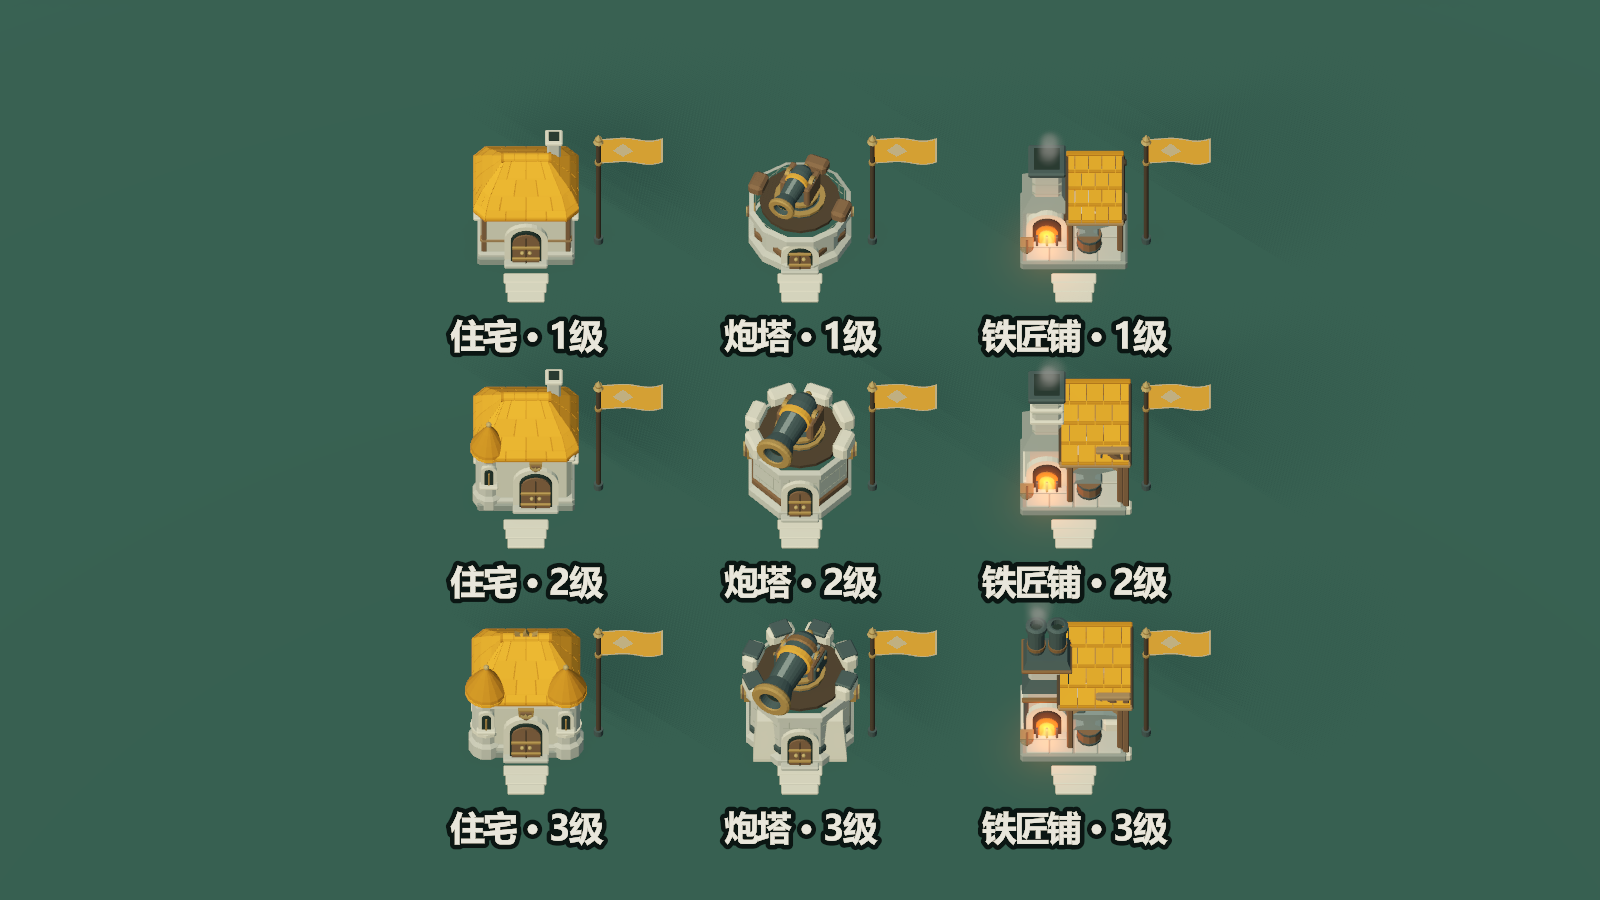
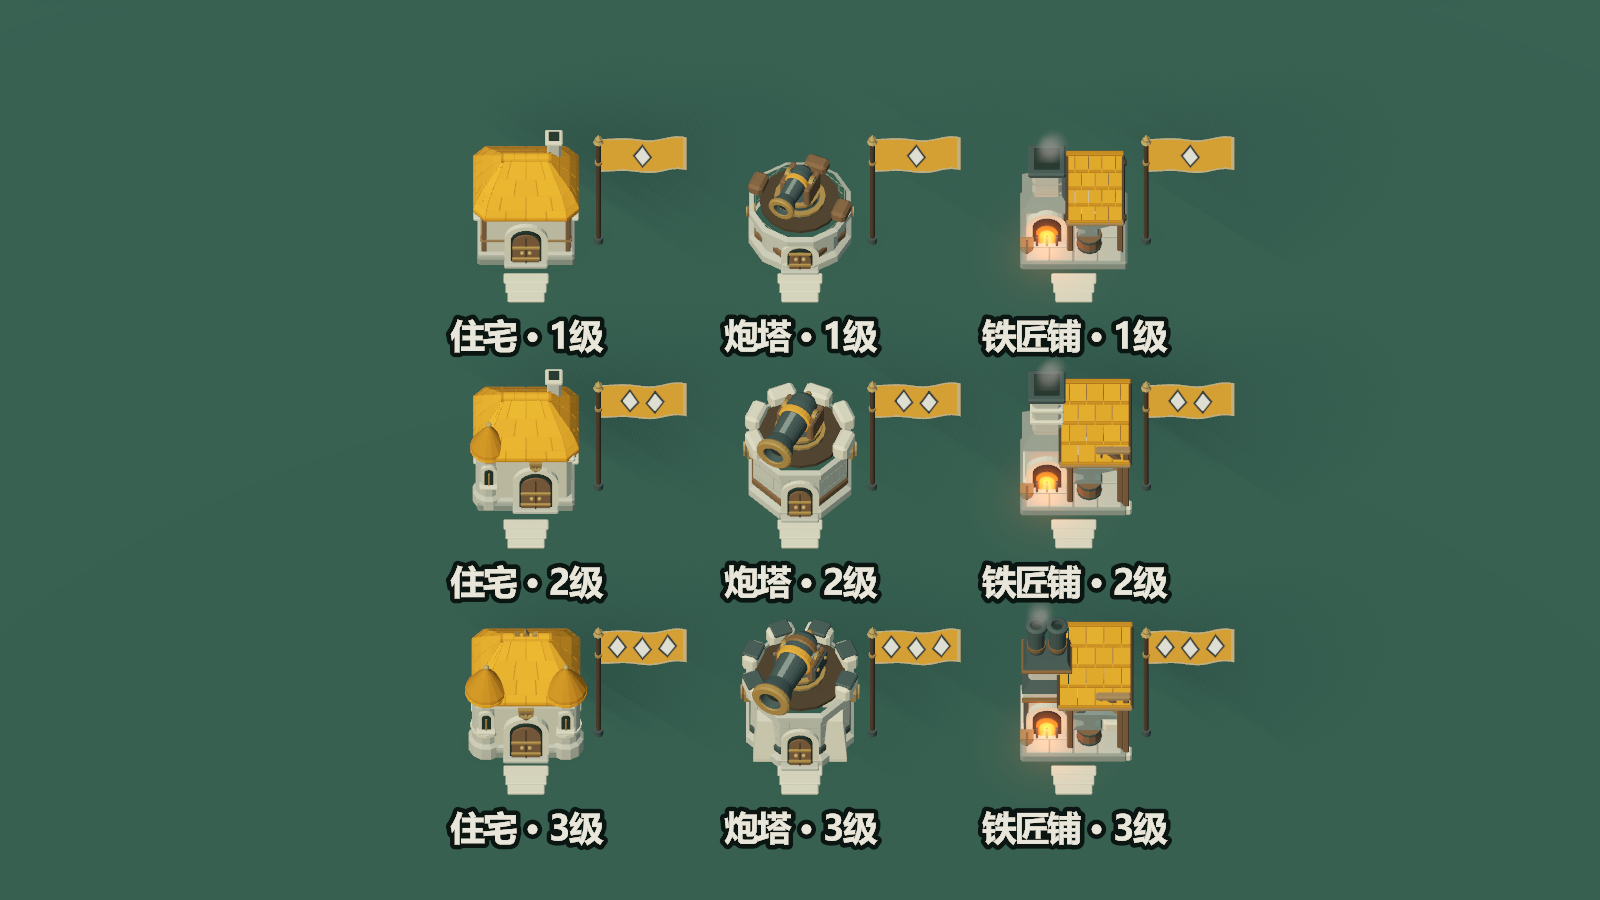
按建筑等级显示清晰的菱形旗帜标记

diff --git a/docs/block_war.md b/docs/block_war.md
@@ -55,6 +55,8 @@
 
 铁匠铺保留开放操作区、粗烟囱和可见工具，从高处也能与封闭住宅区分。详细模型与实机预览见 [环境方向](art/block_war_environment_direction.md)。
 
+建筑旗帜以一、二、三个菱形对应一至三级，升级、占领降级和改建同步更新。旗面保留阵营色，适度扩大；菱形使用浅色填充、深色描边、明确间距和抗锯齿，在正常战场视角下可直接辨识等级。
+
 橡树、桦树、松树、垂柳四种树木与灌木、岩石、蕨、草、芦苇和两种花共十一套模型重新制作，通过根盘、分枝、树皮起伏、立体叶片和成组花草丰富自然林地。减少拥挤的装饰树林，保留全部 46 个导航树障碍；小植物采用分区 MultiMesh，模型离线生成原生 LOD。四座新石桥保留原有 6.4 米有效通行宽度，石岸限制在不可行走河床内。
 
 地面采用低饱和草色与暖灰砂土过渡，取消明显草坪格。灰青溪水、暖灰桥石、分层岩岸与林缘一起构成自然战场。主场景和模型预览共用原生天空环境资源，以柔暖日光、天空补光和接触阴影统一明暗，降低高光与炉火溢光。模式关闭角度软阴影与 SSIL，避免无 TAA 时的颗粒干扰。

diff --git a/docs/art/block_war_environment_direction.md b/docs/art/block_war_environment_direction.md
@@ -26,6 +26,8 @@
 
 阵营主要由橙金/青绿屋顶、旗帜、军服与已有 UI 识别。染色只作用于屋顶，墙体、木门与铜件保持自身材质。人口花牌、派兵比例、技能按钮和操作方式保留。
 
+旗帜的等级标记固定为一、二、三个等大的菱形，分别表示一至三级。旗面为 2.25 × 1.35 米，上缘仍固定在原旗杆高度；浅色菱形配深色描边与抗锯齿，三枚之间保留独立间距。已用正常 58 米与最远 95 米正交镜头检查，等级标记随升级、占领降级及改建更新。
+
 ## 不变的玩法边界
 
 13 座建筑的 ID、位置、类型、初始归属和人口保持；46 个导航树障碍的位置、缩放和半径保持。建筑从任意方向的周界进出，六列编队、单位模型缩放与桥梁有效通行区保持。九套模型都接受同一周界和路径净空检查，升级或改建不会使既有路线穿墙。模型细节不得成为新的隐形阻挡。
